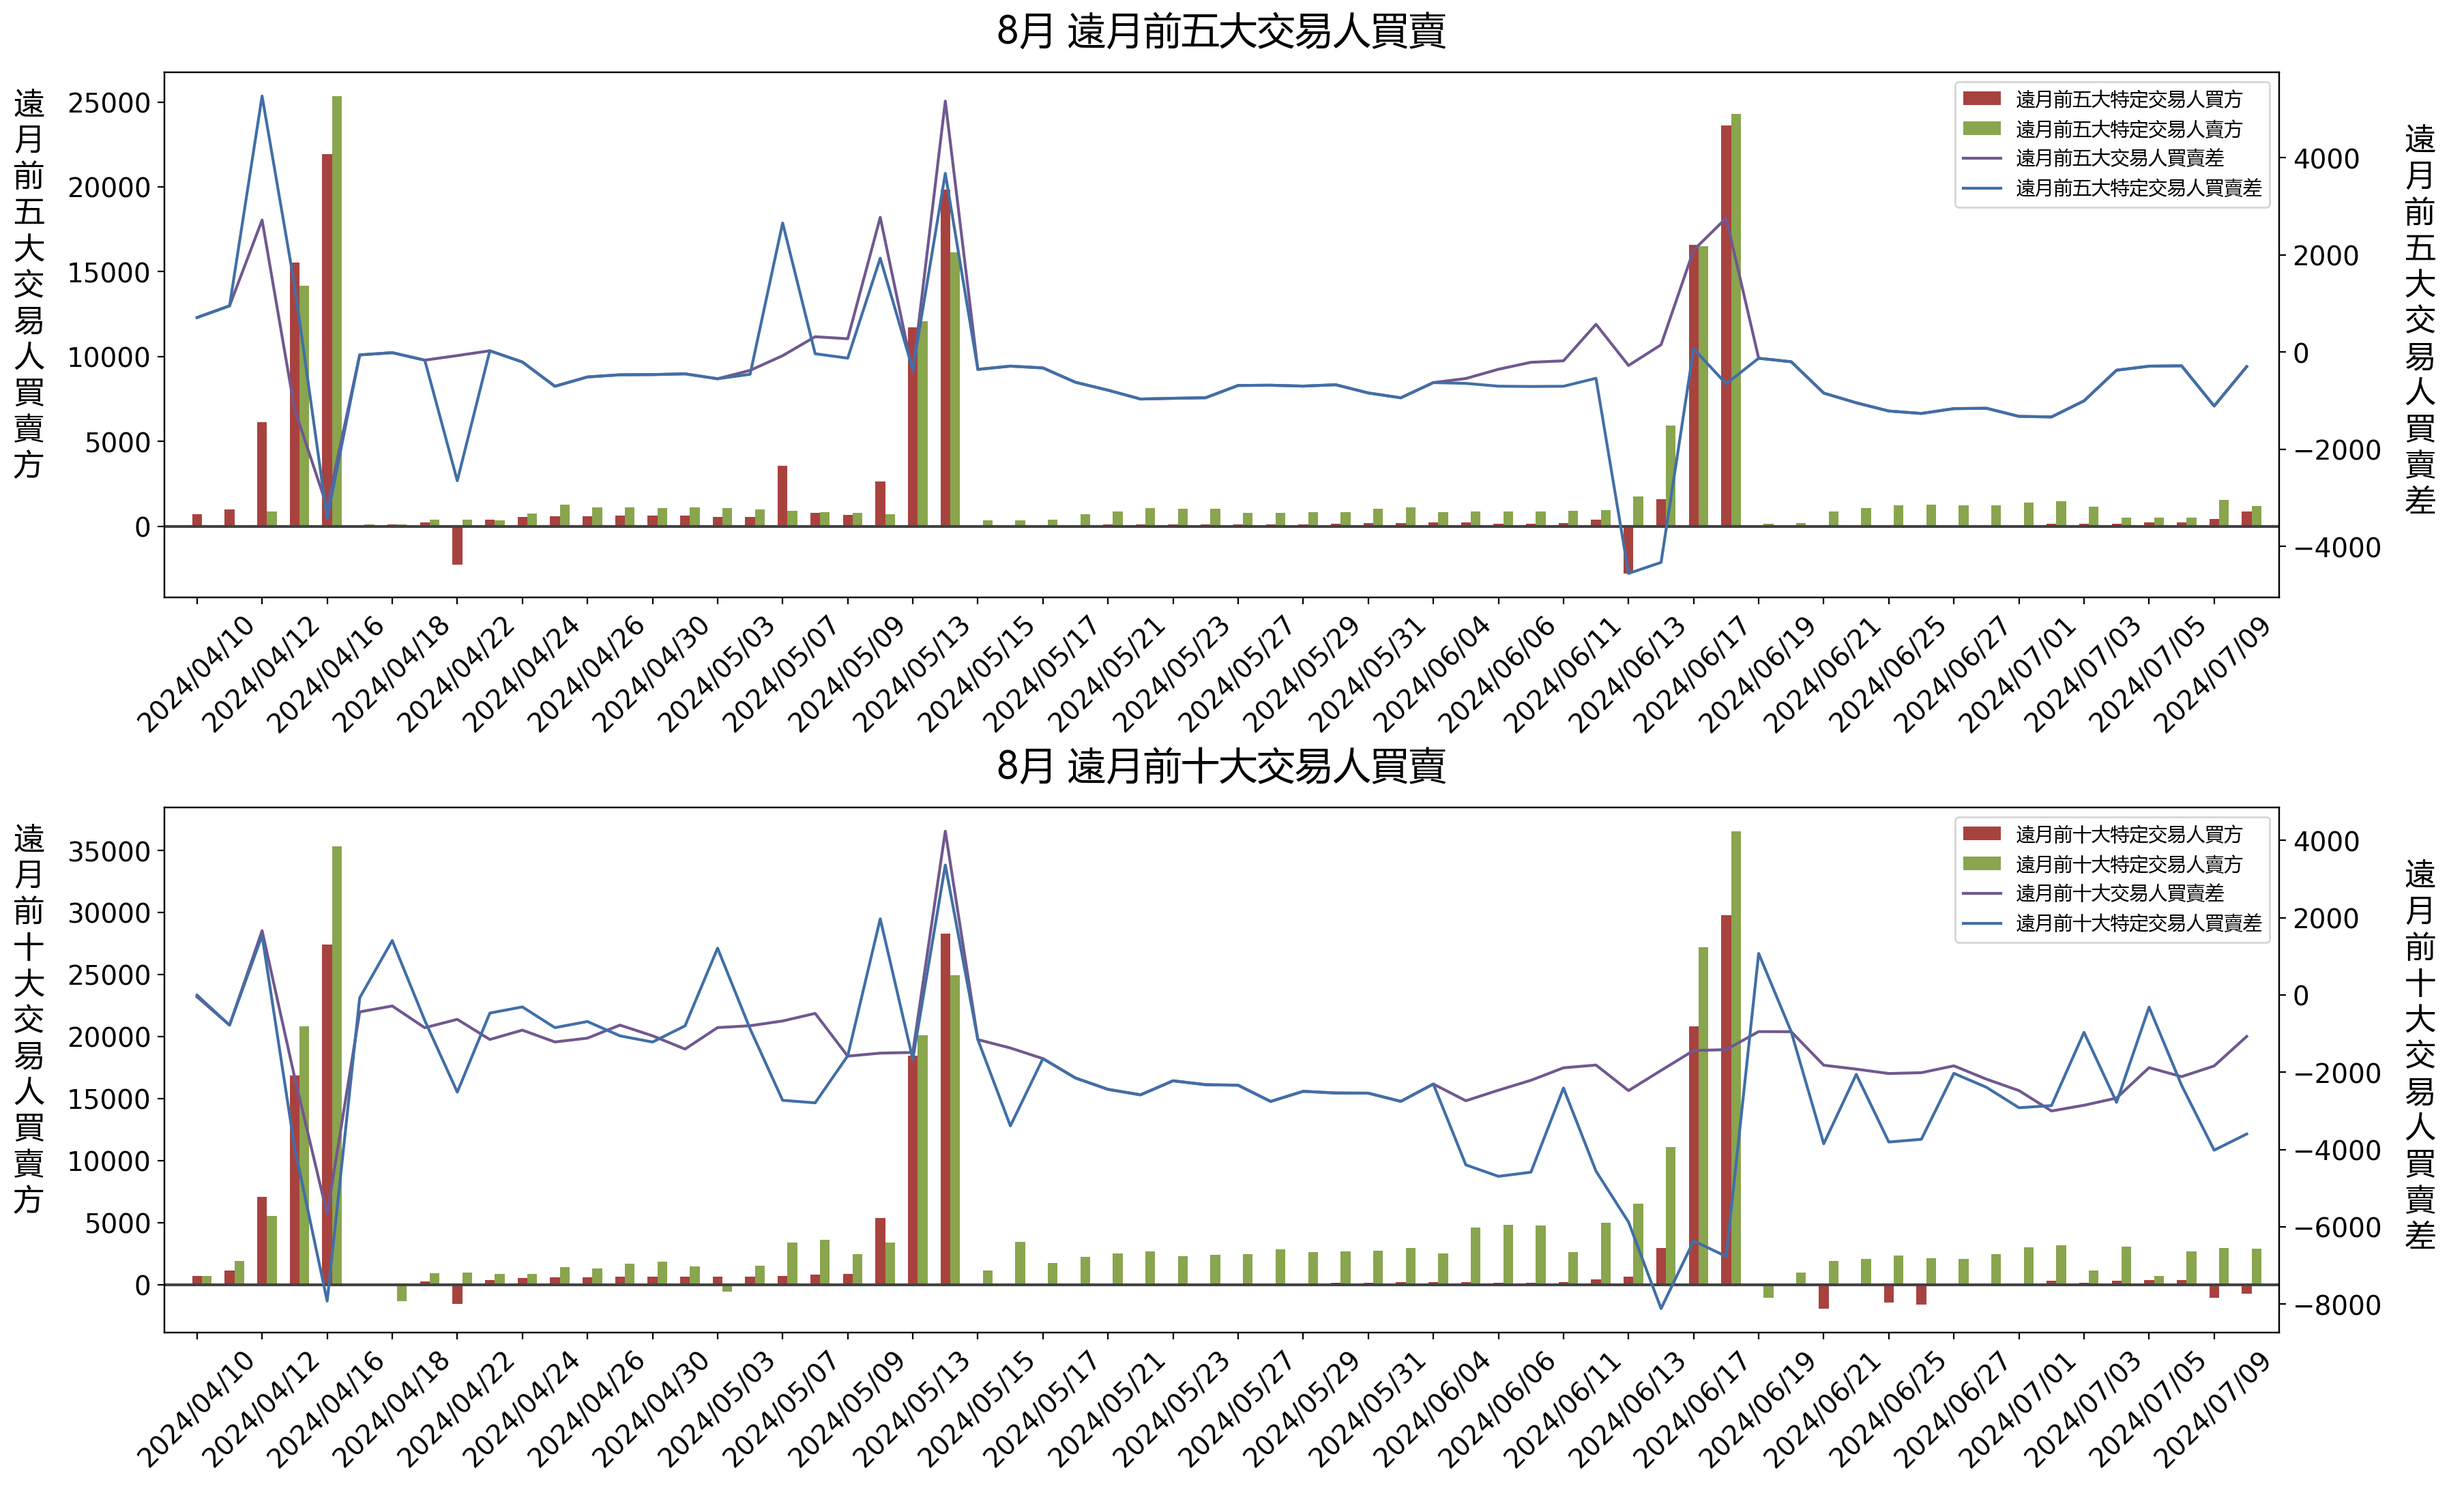
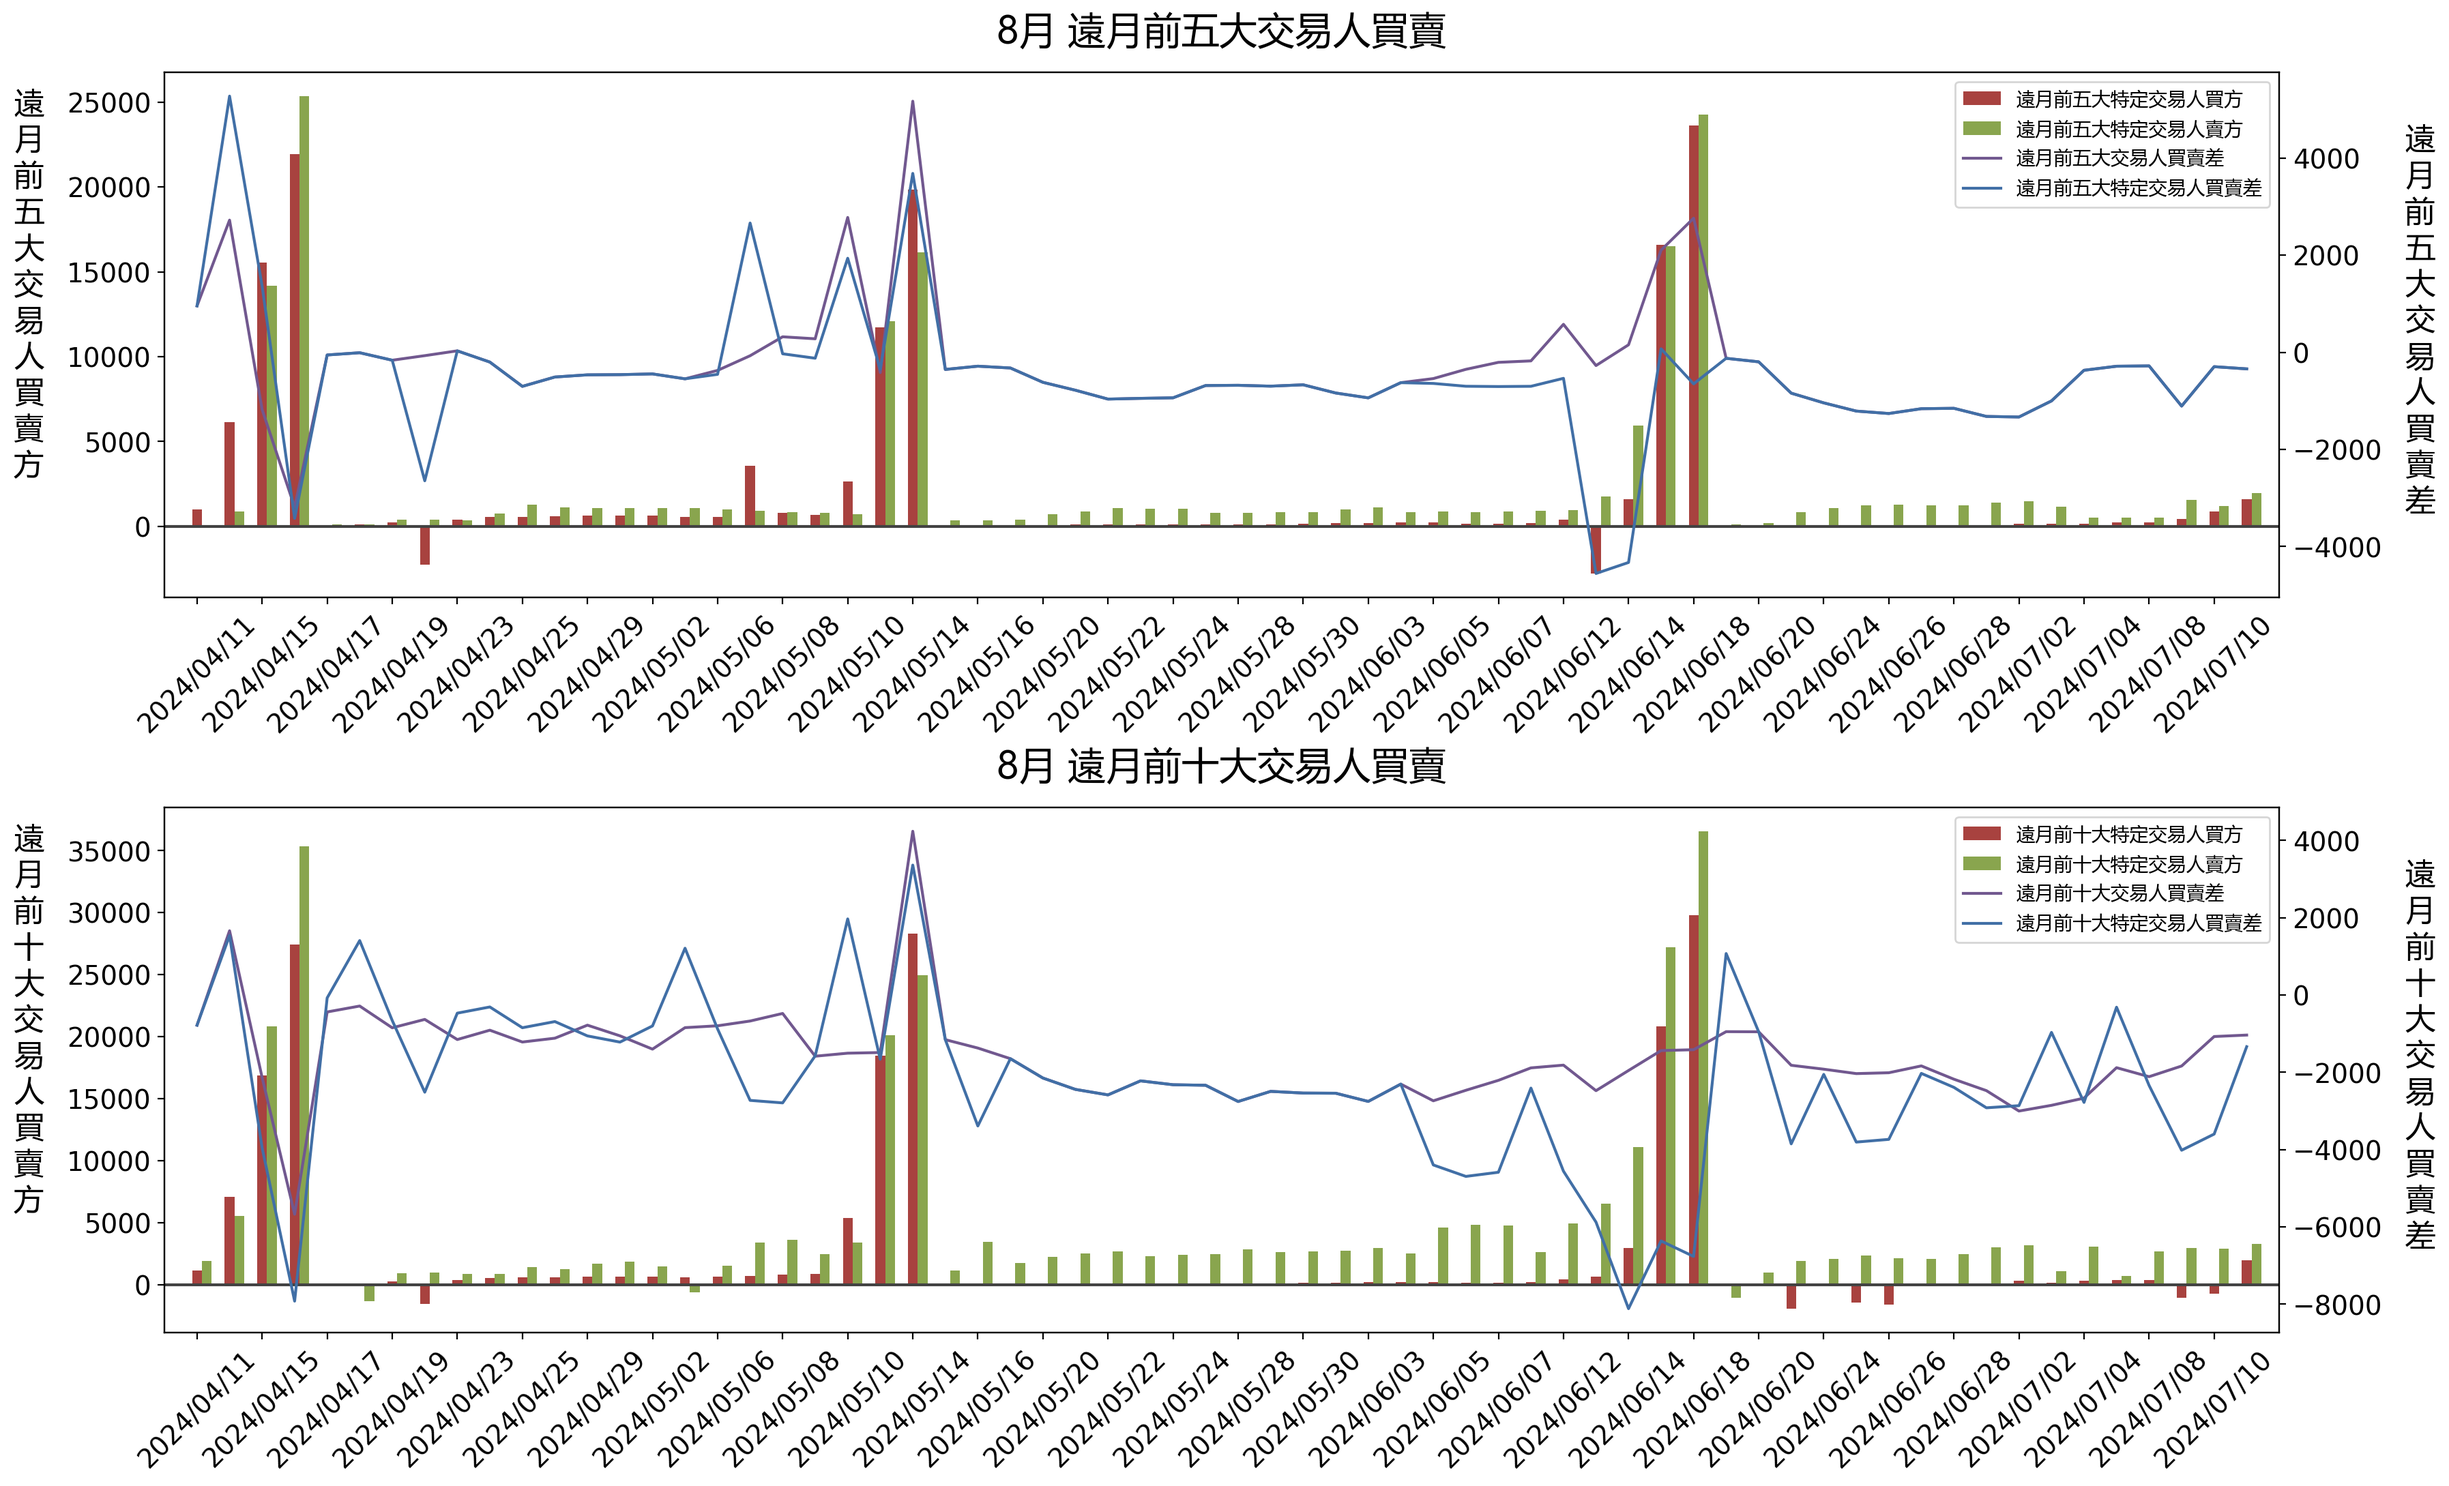
更新時間: Thu Jul 11 16:31:23 CST 2024

diff --git a/README.md b/README.md
@@ -1,12 +1,12 @@
-## 20240710 台指期「預估換倉成本」
+## 20240711 台指期「預估換倉成本」
 ![](images/txfcost.png)
 
-## 20240710 台指期「散戶小台多空比」
+## 20240711 台指期「散戶小台多空比」
 ![](images/bbiri.png)
 
-## 20240710 台指選擇權「Put/Call Ratios」
+## 20240711 台指選擇權「Put/Call Ratios」
 ![](images/pcratio.png)
 
-## 20240710 台指期「大額交易人」
+## 20240711 台指期「大額交易人」
 ![](images/blocktrade.png)
 
